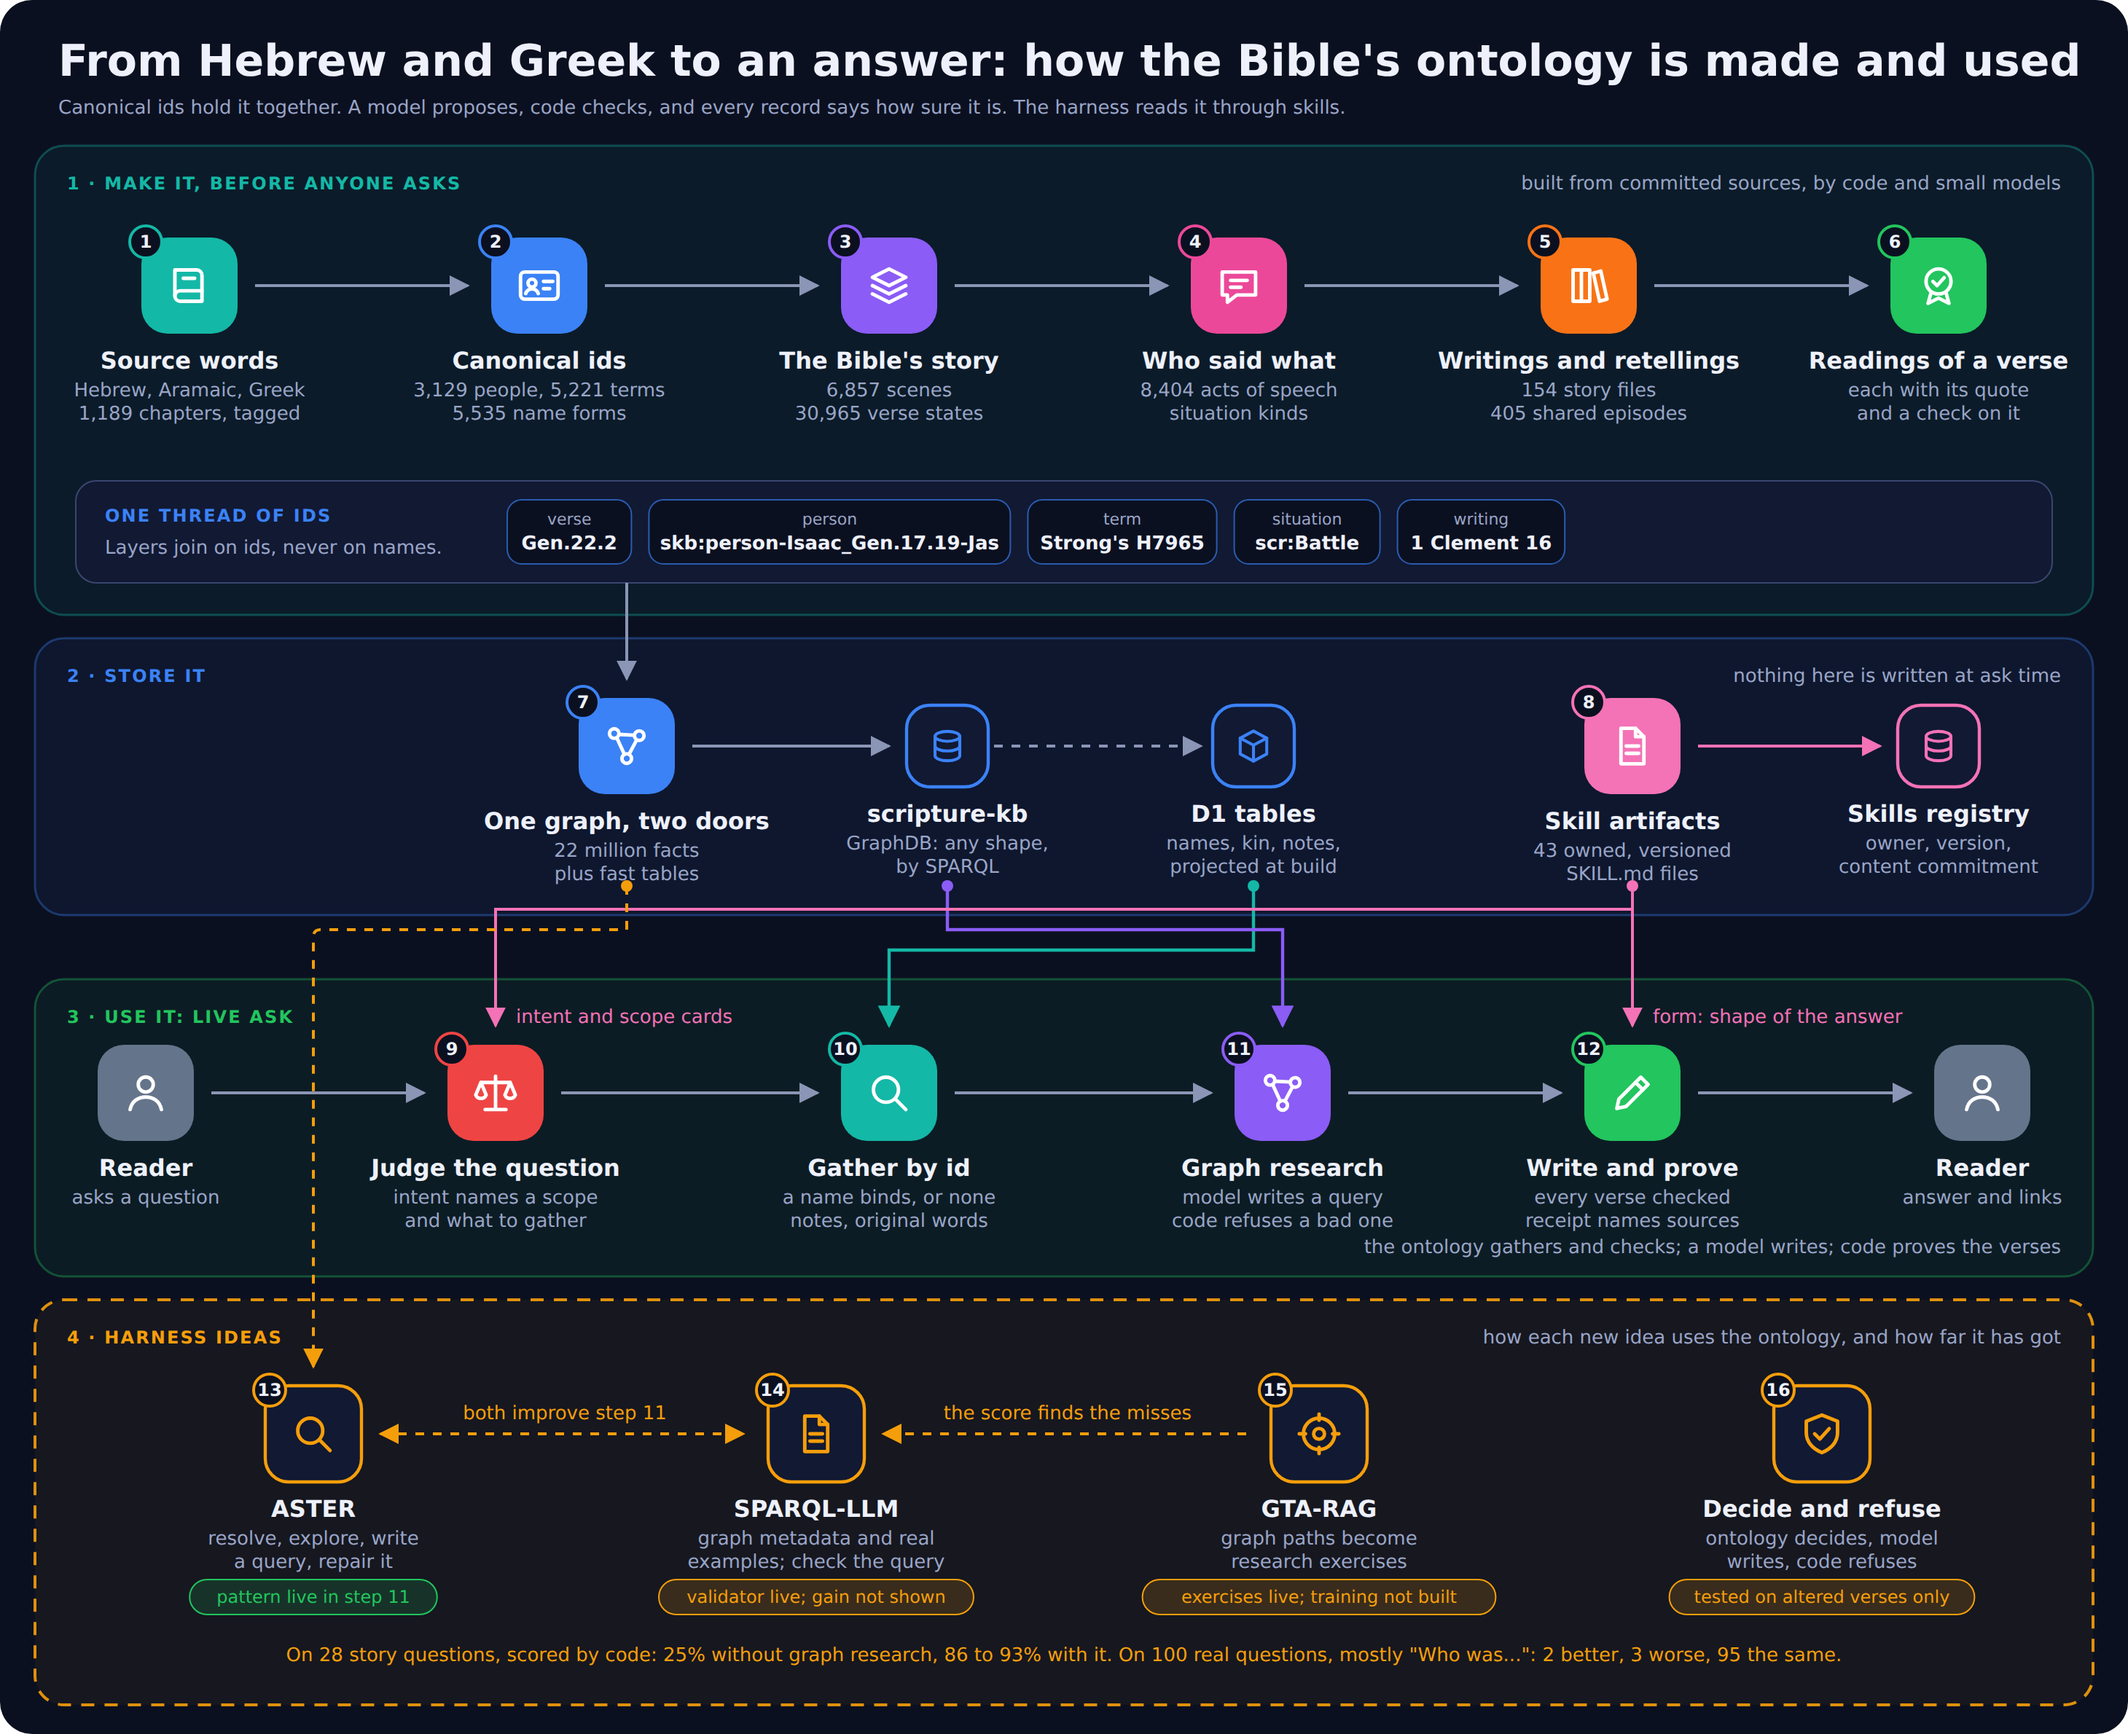
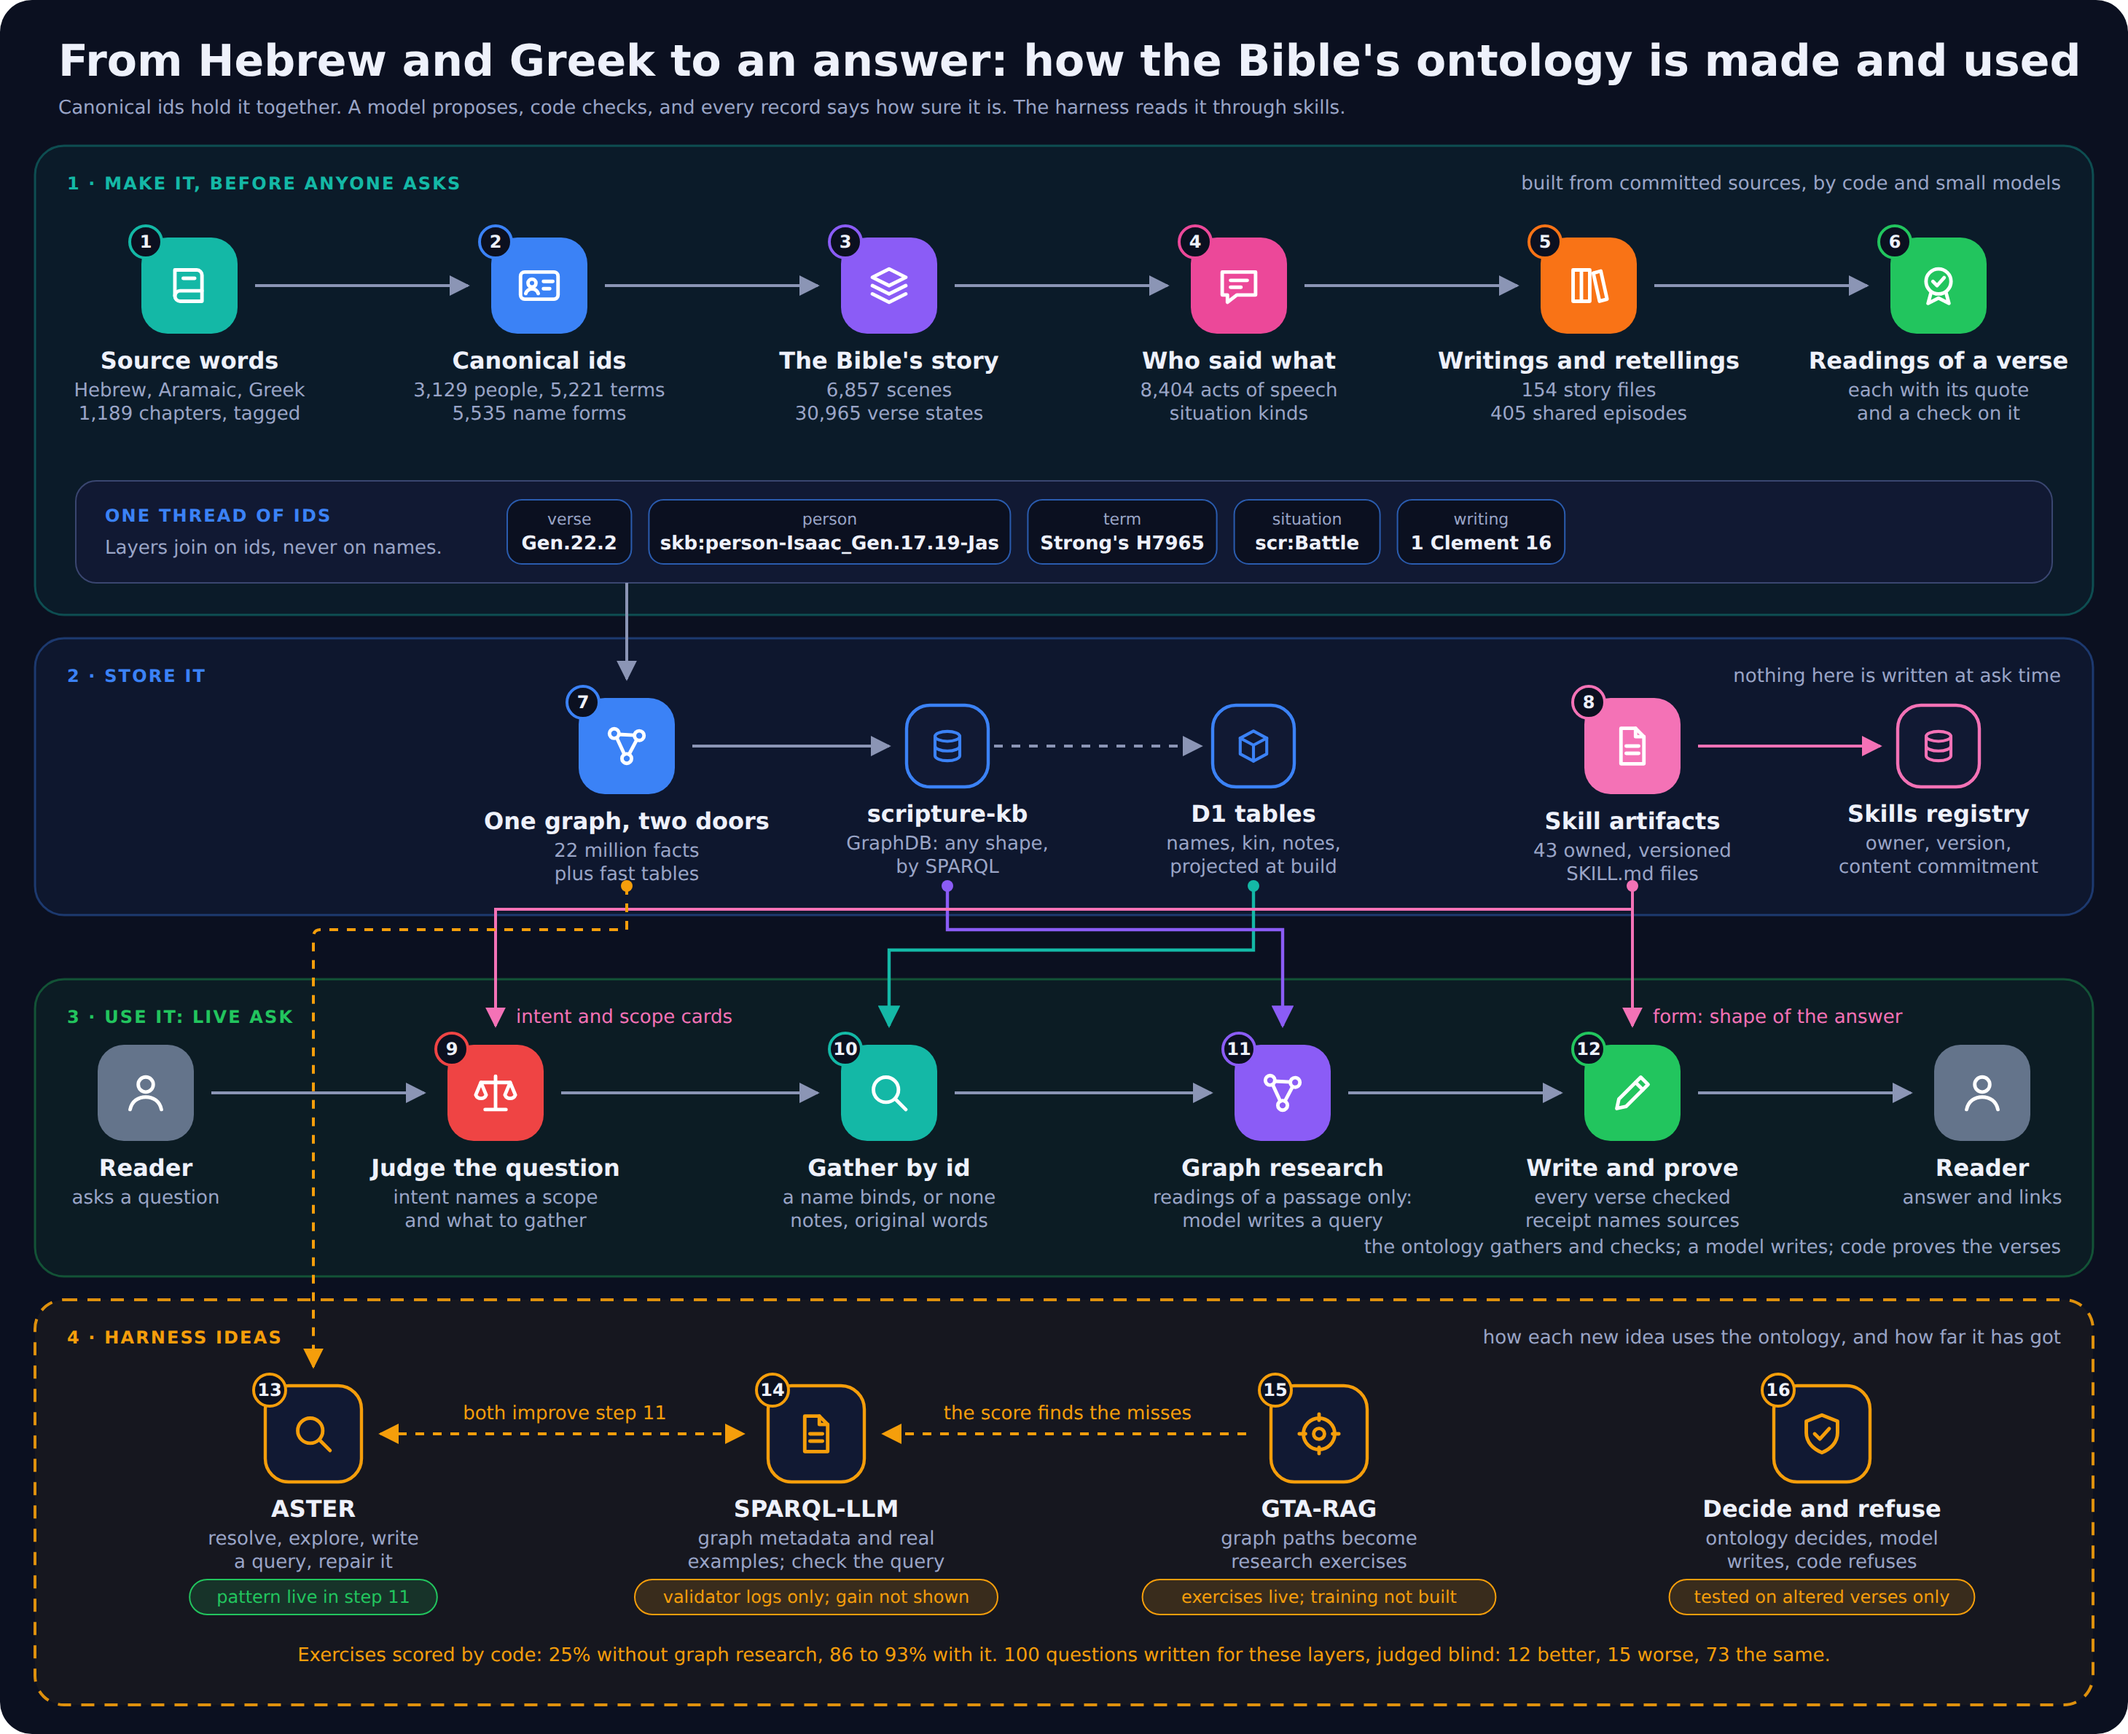
estate: the ontology post states what now runs: graph research on readings only, the validator logging, and the results that led there

Changed region(s): [[0.1247, 0.9017, 0.8414, 0.9639], [0.5298, 0.684, 0.6545, 0.7151]]

diff --git a/apps/estate/src/architecture.ts b/apps/estate/src/architecture.ts
@@ -2018,7 +2018,7 @@ const ONTOLOGY_ALT =
   "A diagram in four bands. Band one, made before anyone asks: source words in Hebrew, Aramaic and Greek, canonical ids, the Bible's story, who said what, " +
   'the writings and their retellings, and recorded readings of a verse, joined by one thread of ids. Band two, stored: one graph with two doors, a GraphDB repository and fast ' +
   'tables, and skill artifacts in a registry. Band three, the live Ask harness: judge the question, gather by id, graph research, write and prove. Band four, harness ideas with ' +
-  'their status: ASTER, whose pattern is live; SPARQL-LLM, whose schema card and validator are live; GTA-RAG, whose exercises are live and whose training is not built; and decide and refuse, tested on altered verses only.';
+  'their status: ASTER, whose pattern is live; SPARQL-LLM, whose schema card is live and whose validator only logs; GTA-RAG, whose exercises are live and whose training is not built; and decide and refuse, tested on altered verses only.';
 
 const BUILD = 'Built ahead of time from the <code>skills</code> repository (<code>ontology/</code>, <code>scripts/</code>), never at ask time.';
 const STORE = 'GraphDB repository <code>scripture-kb</code>, read by a read-only delegate user that can read nothing else and write nothing.';
@@ -2156,7 +2156,7 @@ const ONTOLOGY_STEPS: Step[] = [
     what: [
       'One small model call sees the intent cards and gives a probability for each. A rule in code accepts a choice only with enough confidence and margin.',
       'A chosen intent names its sources (Scripture, general knowledge or both) and can bring a scope and a form with it.',
-      'When no scope acts, graph research may still run, with a list of the question shapes only the graph can serve. A test showed the judge abstained on most questions like "What did Matthew Henry say about Priscilla?", which is the graph\'s best shape.',
+      'The intent decides what is gathered from the library. Whether the graph is read at all is now decided by the question\'s own shape (step 11).',
     ],
     where: [ASK, 'Source: <code>src/harness/draft-prove.ts</code>, the intent stage, and <code>src/harness/intent-vocab.ts</code>.'],
     by: 'A small model, then a rule in code.',
@@ -2181,10 +2181,11 @@ const ONTOLOGY_STEPS: Step[] = [
   },
   {
     id: 'research', name: 'Graph research', color: '#8b5cf6', at: [880, 750],
-    summary: 'The model writes its own graph query; code runs it, or refuses it.',
+    summary: 'On how readers took a passage, the model writes a graph query; code runs it, or refuses it.',
     why: 'Fixed tools answer fixed shapes. "What did Naomi say to Ruth, and where?" and "Which writings retell Genesis 3?" are joins across layers that no one wrote a tool for. Here the ontology becomes something the agent investigates.',
     what: [
-      'The model reads the schema card and the question\'s names as bound in step 10, then decides whether a query is needed at all. "What does Romans 8:28 promise?" needs none.',
+      '<b>It now runs only on how readers have taken a passage.</b> On 100 questions written for these layers, those were the one shape it never lost on: 4 better, 0 worse, 21 the same. Who said what was 2 better, 4 worse; stories 2 and 3; retellings 4 and 8, where the writer tended to discuss its evidence rather than answer.',
+      'The model reads the schema card and the question\'s names as bound in step 10, then decides whether a query is needed at all.',
       'It writes a SPARQL query. The door runs it. On a refusal or an empty result it may rewrite once.',
       'Unit ids in the results are fetched from the store as text, and verses are resolved against the signed edition. Other rows go to the writer named as the graph\'s records, never as Scripture.',
       'Code refuses any query on the recorded readings that does not exclude claims whose quote failed its check. The model is told why and rewrites once.',
@@ -2231,15 +2232,15 @@ const ONTOLOGY_STEPS: Step[] = [
     why: 'SPARQL-LLM, from the SIB Swiss Institute of Bioinformatics, generates queries using metadata about the graph and human-written example queries, and validates each query against the schema before it runs. A wrong query is cheaper to catch before it reaches the graph than after.',
     what: [
       '<b>Live, in our own form:</b> a schema card stating only shapes we have verified, real example queries, and a machine-readable description of every graph (VoID) in the repository.',
-      '<b>Live, since 7 November: validating before running.</b> A snapshot read from the graph says what each named graph holds. A query that cannot return anything, because of a problem in a part it requires, is refused with the reason and what the graph does hold, using none of the server\'s two query slots. A dead branch of a UNION or an OPTIONAL passes. Replayed on 236 queries the agent had written, it wrongly refused none and caught 8 of 32 failures, though it took three attempts on that same history. In 28 exercises and 100 fresh questions it fired once, so whether it improves answers is not yet shown.',
+      '<b>Built, and only logging: validating before running.</b> A snapshot read from the graph says what each named graph holds, and a query that cannot return anything is flagged with the reason. Replayed on 236 queries the agent had written, it wrongly flagged none and caught 8 of 32 failures, though it took three attempts on that same history. In 228 fresh runs it fired once, so its gain is not shown, and a stale snapshot could refuse a good query. So it records what it would have refused, and refuses nothing.',
       '<b>Not built: choosing examples by question.</b> The agent reads the whole card every time. Retrieving only the examples close to the question would keep it short as the ontology grows.',
       '<b>Not built: a card from the data.</b> Ours is written by hand and has gone stale twice. Generating its counts and shapes from the graph\'s own description would stop that.',
     ],
     where: ['Live: <code>apps/demo-bible-mcp/src/sparql.ts</code> (the card and the door) and <code>scripts/build_scripture_kb.py</code> (the VoID description).', 'Reference: <a href="https://arxiv.org/abs/2512.14277">SPARQL-LLM</a>. Its reported results are on other graphs, not on Scripture, and the paper is listed as under review.'],
-    by: 'A model writes the query; code validates it against a snapshot of the graph; the graph has the last word.',
+    by: 'A model writes the query, and the graph has the last word. Code logs what the validator would have said.',
     reads: ['The ontology\'s classes and properties.', 'The graph\'s VoID description and the example queries.'],
-    leaves: ['The reason a query was refused, on the record, before it ran.'],
-    stops: ['Two tries. A refused query goes back to the model with the reason, and the answer goes on without the graph if the rewrite fails too.', 'What the snapshot does not cover passes, and the snapshot has to be regenerated when a graph changes.'],
+    leaves: ['In the log, what it would have refused and why.'],
+    stops: ['It stops nothing while it only logs.', 'The door gives the server a 17-second limit on every query.'],
   },
   {
     id: 'gta', name: 'GTA-RAG', color: '#f59e0b', at: [905, 984],
